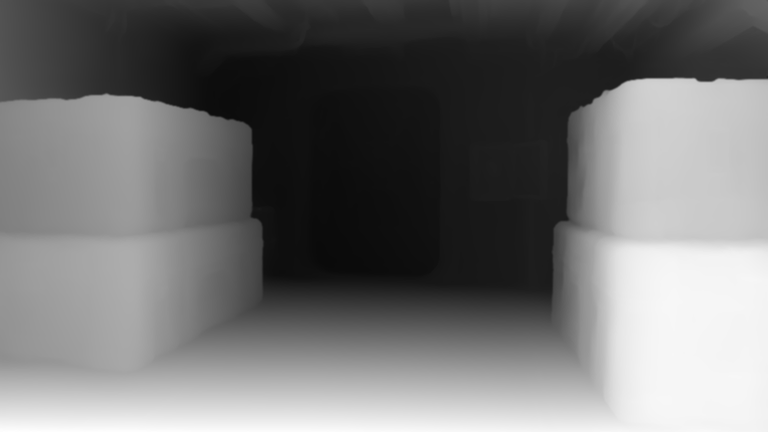
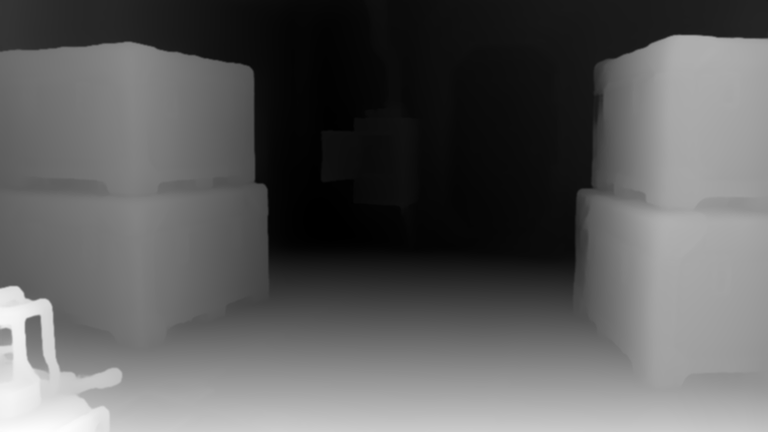
art(P7): rooms, portraits, hero and crew photo regenerated in style v5 with colour keys and identity anchors; depth maps rebuilt; hotspots re-placed and all 13 close-ups verified; close-up panel docks at top for low props
Claude-Session: https://claude.ai/code/session_012zAwTCp5JfyZrVxYtsPHLg

diff --git a/content/art.ts b/content/art.ts
@@ -6,21 +6,21 @@ export interface RoomArt { image: string; evidence?: Record<string, Hotspot>; pe
 const R = (image: string, rest: Omit<RoomArt, 'image'> = {}): RoomArt => ({ image: `/art/rooms/${image}.jpg`, ...rest });
 export const ROOM_ART: Record<string, Record<string, RoomArt>> = {
   ep0: {
-    corridor: R('corridor_a', { evidence: { e_bootprint: { x: 19, y: 86 } }, people: { lind: { x: 50, y: 62 } }, exits: { medbay: 'left', galley: 'right', bunks: 'ahead' } }),
-    medbay: R('medbay_ep0', { evidence: { e_safe: { x: 76, y: 40 } }, people: { okafor: { x: 38, y: 60 } }, exits: { corridor: 'back' } }),
-    galley: R('galley', { evidence: { e_wrapper: { x: 66, y: 80 } }, people: { reyes: { x: 30, y: 62 }, lind: { x: 50, y: 66 } }, exits: { corridor: 'back' } }),
-    bunks: R('quarters', { evidence: { e_locker: { x: 71, y: 50 } }, people: { lind: { x: 45, y: 66 } }, exits: { corridor: 'back' } }),
+    corridor: R('corridor_a', { evidence: { e_bootprint: { x: 32, y: 77 } }, people: { lind: { x: 50, y: 62 } }, exits: { medbay: 'left', galley: 'right', bunks: 'ahead' } }),
+    medbay: R('medbay_ep0', { evidence: { e_safe: { x: 84, y: 27 } }, people: { okafor: { x: 45, y: 62 } }, exits: { corridor: 'back' } }),
+    galley: R('galley', { evidence: { e_wrapper: { x: 72, y: 80 } }, people: { reyes: { x: 44, y: 60 }, lind: { x: 60, y: 63 } }, exits: { corridor: 'back' } }),
+    bunks: R('quarters', { evidence: { e_locker: { x: 12, y: 45 } }, people: { lind: { x: 45, y: 70 } }, exits: { corridor: 'back' } }),
   },
   ep1: {
-    bridge: R('bridge', { evidence: { e_nav_tablet: { x: 58, y: 57 } }, people: { vance: { x: 30, y: 66 }, sato: { x: 70, y: 66 } }, exits: { corridor_a: 'left', airlock: 'right' } }),
+    bridge: R('bridge', { evidence: { e_nav_tablet: { x: 60, y: 55 } }, people: { vance: { x: 30, y: 68 }, sato: { x: 72, y: 68 } }, exits: { corridor_a: 'left', airlock: 'right' } }),
     corridor_a: R('corridor_a', { people: { vance: { x: 36, y: 64 }, sato: { x: 64, y: 64 }, reyes: { x: 50, y: 70 } }, exits: { medbay: 'left', galley: 'right', corridor_b: 'ahead', bridge: 'back' } }),
-    medbay: R('medbay_ep1', { evidence: { e_bruise: { x: 62, y: 49 } }, people: { okafor: { x: 32, y: 64 } }, exits: { corridor_a: 'back' } }),
-    galley: R('galley', { evidence: { e_coffee: { x: 78, y: 67 } }, people: { reyes: { x: 30, y: 64 }, lind: { x: 50, y: 68 } }, exits: { corridor_a: 'back' } }),
-    corridor_b: R('corridor_b', { evidence: { e_boot: { x: 67, y: 90 } }, people: { lind: { x: 36, y: 66 }, sato: { x: 62, y: 66 } }, exits: { engine: 'ahead', cargo3: 'left', quarters: 'right', corridor_a: 'back' } }),
-    engine: R('engine', { evidence: { e_code_note: { x: 66, y: 63 } }, people: { lind: { x: 36, y: 66 } }, exits: { corridor_b: 'back' } }),
-    cargo3: R('cargo3', { evidence: { e_body: { x: 49, y: 79 }, e_sensor_panel: { x: 65, y: 38 } }, exits: { corridor_b: 'back' } }),
-    quarters: R('quarters', { evidence: { e_haldane_ledger: { x: 9, y: 68 }, e_sato_jacket: { x: 51, y: 64 } }, people: { vance: { x: 32, y: 60 }, sato: { x: 70, y: 62 }, reyes: { x: 50, y: 60 } }, exits: { corridor_b: 'back' } }),
-    airlock: R('airlock', { evidence: { e_glove: { x: 56, y: 85 } }, exits: { bridge: 'back' } }),
+    medbay: R('medbay_ep1', { evidence: { e_bruise: { x: 49, y: 38 } }, people: { okafor: { x: 24, y: 52 } }, exits: { corridor_a: 'back' } }),
+    galley: R('galley', { evidence: { e_coffee: { x: 88, y: 72 } }, people: { reyes: { x: 44, y: 60 }, lind: { x: 60, y: 63 } }, exits: { corridor_a: 'back' } }),
+    corridor_b: R('corridor_b', { evidence: { e_boot: { x: 47, y: 92 } }, people: { lind: { x: 30, y: 66 }, sato: { x: 66, y: 66 } }, exits: { engine: 'ahead', cargo3: 'left', quarters: 'right', corridor_a: 'back' } }),
+    engine: R('engine', { evidence: { e_code_note: { x: 87, y: 82 } }, people: { lind: { x: 33, y: 70 } }, exits: { corridor_b: 'back' } }),
+    cargo3: R('cargo3', { evidence: { e_body: { x: 52, y: 76 }, e_sensor_panel: { x: 49, y: 34 } }, exits: { corridor_b: 'back' } }),
+    quarters: R('quarters', { evidence: { e_haldane_ledger: { x: 88, y: 32 }, e_sato_jacket: { x: 52, y: 48 } }, people: { vance: { x: 30, y: 72 }, sato: { x: 70, y: 72 }, reyes: { x: 50, y: 78 } }, exits: { corridor_b: 'back' } }),
+    airlock: R('airlock', { evidence: { e_glove: { x: 57, y: 89 } }, exits: { bridge: 'back' } }),
   },
 };
 export const PORTRAIT: Record<string, string> = { vance: '/art/portraits/vance.jpg', okafor: '/art/portraits/okafor.jpg', lind: '/art/portraits/lind.jpg', sato: '/art/portraits/sato.jpg', reyes: '/art/portraits/reyes.jpg', watson: '/art/portraits/watson.jpg' };

diff --git a/src/ui/EvidenceCloseup.tsx b/src/ui/EvidenceCloseup.tsx
@@ -11,6 +11,8 @@ export interface EvidenceCloseupProps {
   cardId?: string;
   onPin: (note: string) => void;
   onBack: () => void;
+  /** The prop sits low in the frame: dock the panel at the top so the zoom stays visible. */
+  low?: boolean;
 }
 
 async function copy(text: string): Promise<boolean> {
@@ -18,7 +20,7 @@ async function copy(text: string): Promise<boolean> {
 }
 
 /** The Room-style close-up: the stage art has zoomed into the hotspot, this panel carries what was found and what to do with it. */
-export function EvidenceCloseup({ name, body, cardId, onPin, onBack }: EvidenceCloseupProps) {
+export function EvidenceCloseup({ name, body, cardId, onPin, onBack, low }: EvidenceCloseupProps) {
   const lang = useLang((s) => s.lang);
   const [pinning, setPinning] = React.useState(false);
   const [note, setNote] = React.useState('');
@@ -27,7 +29,7 @@ export function EvidenceCloseup({ name, body, cardId, onPin, onBack }: EvidenceC
   const askLine = T.askWatsonLook[lang].replace('{name}', name);
   const say = (m: string) => { setFlash(m); setTimeout(() => setFlash(null), 1400); };
   return (
-    <div className="closeup" role="dialog" aria-label={name}>
+    <div className={'closeup' + (low ? ' low' : '')} role="dialog" aria-label={name}>
       <div className="cu-name">{name}</div>
       <div className="cu-body">{body}</div>
       {pinning && cardId && (

diff --git a/src/ui/stage-fx.css b/src/ui/stage-fx.css
@@ -22,6 +22,8 @@
 /* — evidence close-up — */
 .stage.closeup-on .hot, .stage.closeup-on .exit, .stage.closeup-on .talk-rail { opacity: 0; pointer-events: none; transition: opacity .2s ease; }
 .closeup { position: absolute; left: 50%; bottom: 34px; transform: translateX(-50%); width: min(560px, 86%); background: rgba(8,10,13,.94); border: 1px solid var(--warn); border-radius: 8px; padding: 14px 16px; box-shadow: 0 10px 44px rgba(0,0,0,.75); z-index: 6; animation: bakerCloseupIn 320ms ease; }
+/* a prop low in the frame: the panel docks at the top so the zoomed object is not hidden under it */
+.closeup.low { bottom: auto; top: 56px; }
 @keyframes bakerCloseupIn { from { opacity: 0; transform: translateX(-50%) translateY(12px); } to { opacity: 1; transform: translateX(-50%) translateY(0); } }
 .closeup .cu-name { font-size: 11px; letter-spacing: .08em; text-transform: uppercase; color: var(--warn); margin-bottom: 6px; }
 .closeup .cu-body { font-size: 15px; line-height: 1.5; }

diff --git a/src/ui/SceneStage.tsx b/src/ui/SceneStage.tsx
@@ -150,7 +150,7 @@ export function SceneStage() {
         </div>
       ); })()}
       {dialogue && sel && <DialogueView person={{ id: sel.id, name: sel.name, role: sel.role, portrait: sel.portrait }} topicLabel={dialogue.topicLabel} text={dialogue.text} onClose={() => setDialogue(null)} />}
-      {closeup && <EvidenceCloseup name={closeup.name} body={closeup.body} cardId={closeup.cardId}
+      {closeup && <EvidenceCloseup low={closeup.at.y > 76} name={closeup.name} body={closeup.body} cardId={closeup.cardId}
         onPin={(note) => { const r = dispatch({ kind: 'pin', cardId: closeup.cardId, note }); if (!r.ok) show(r.message); }}
         onBack={() => setCloseup(null)} />}
       <WatsonTicker />
